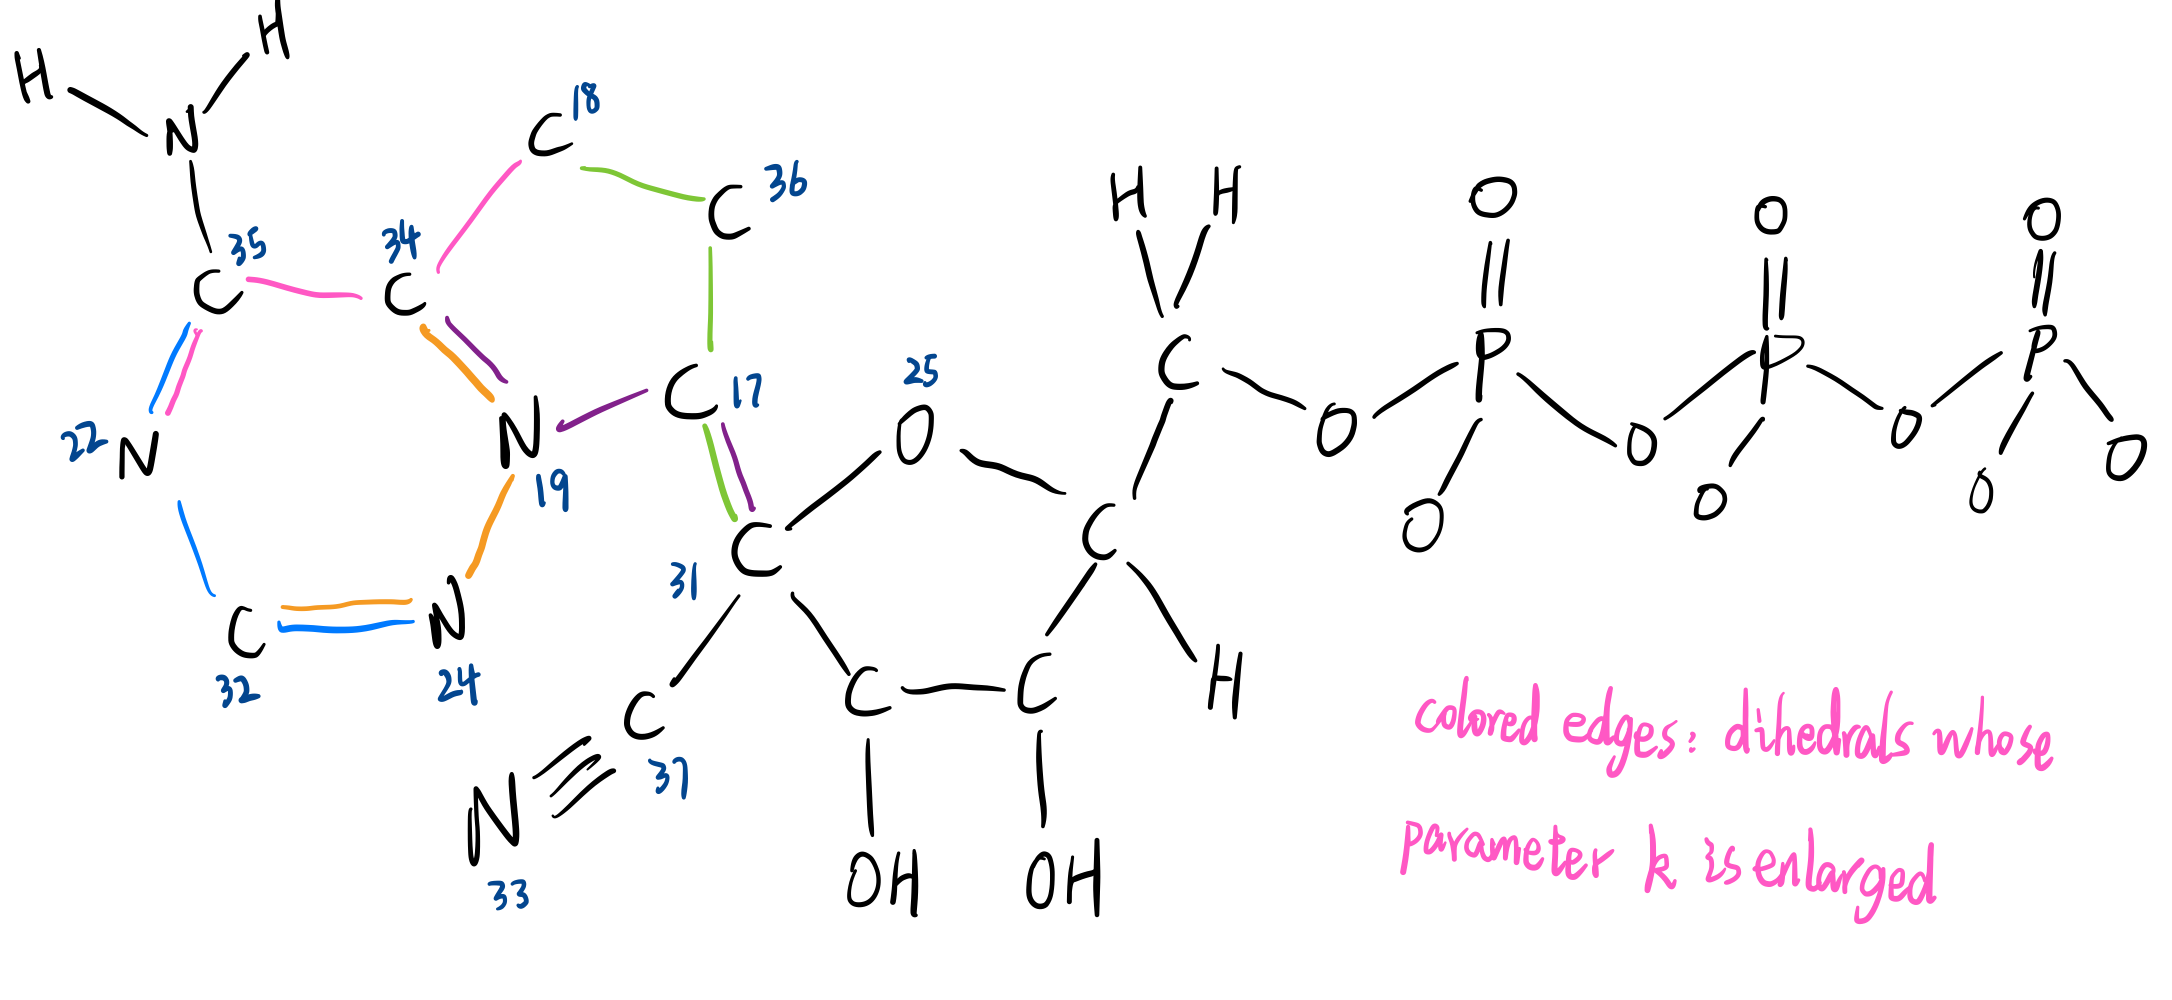
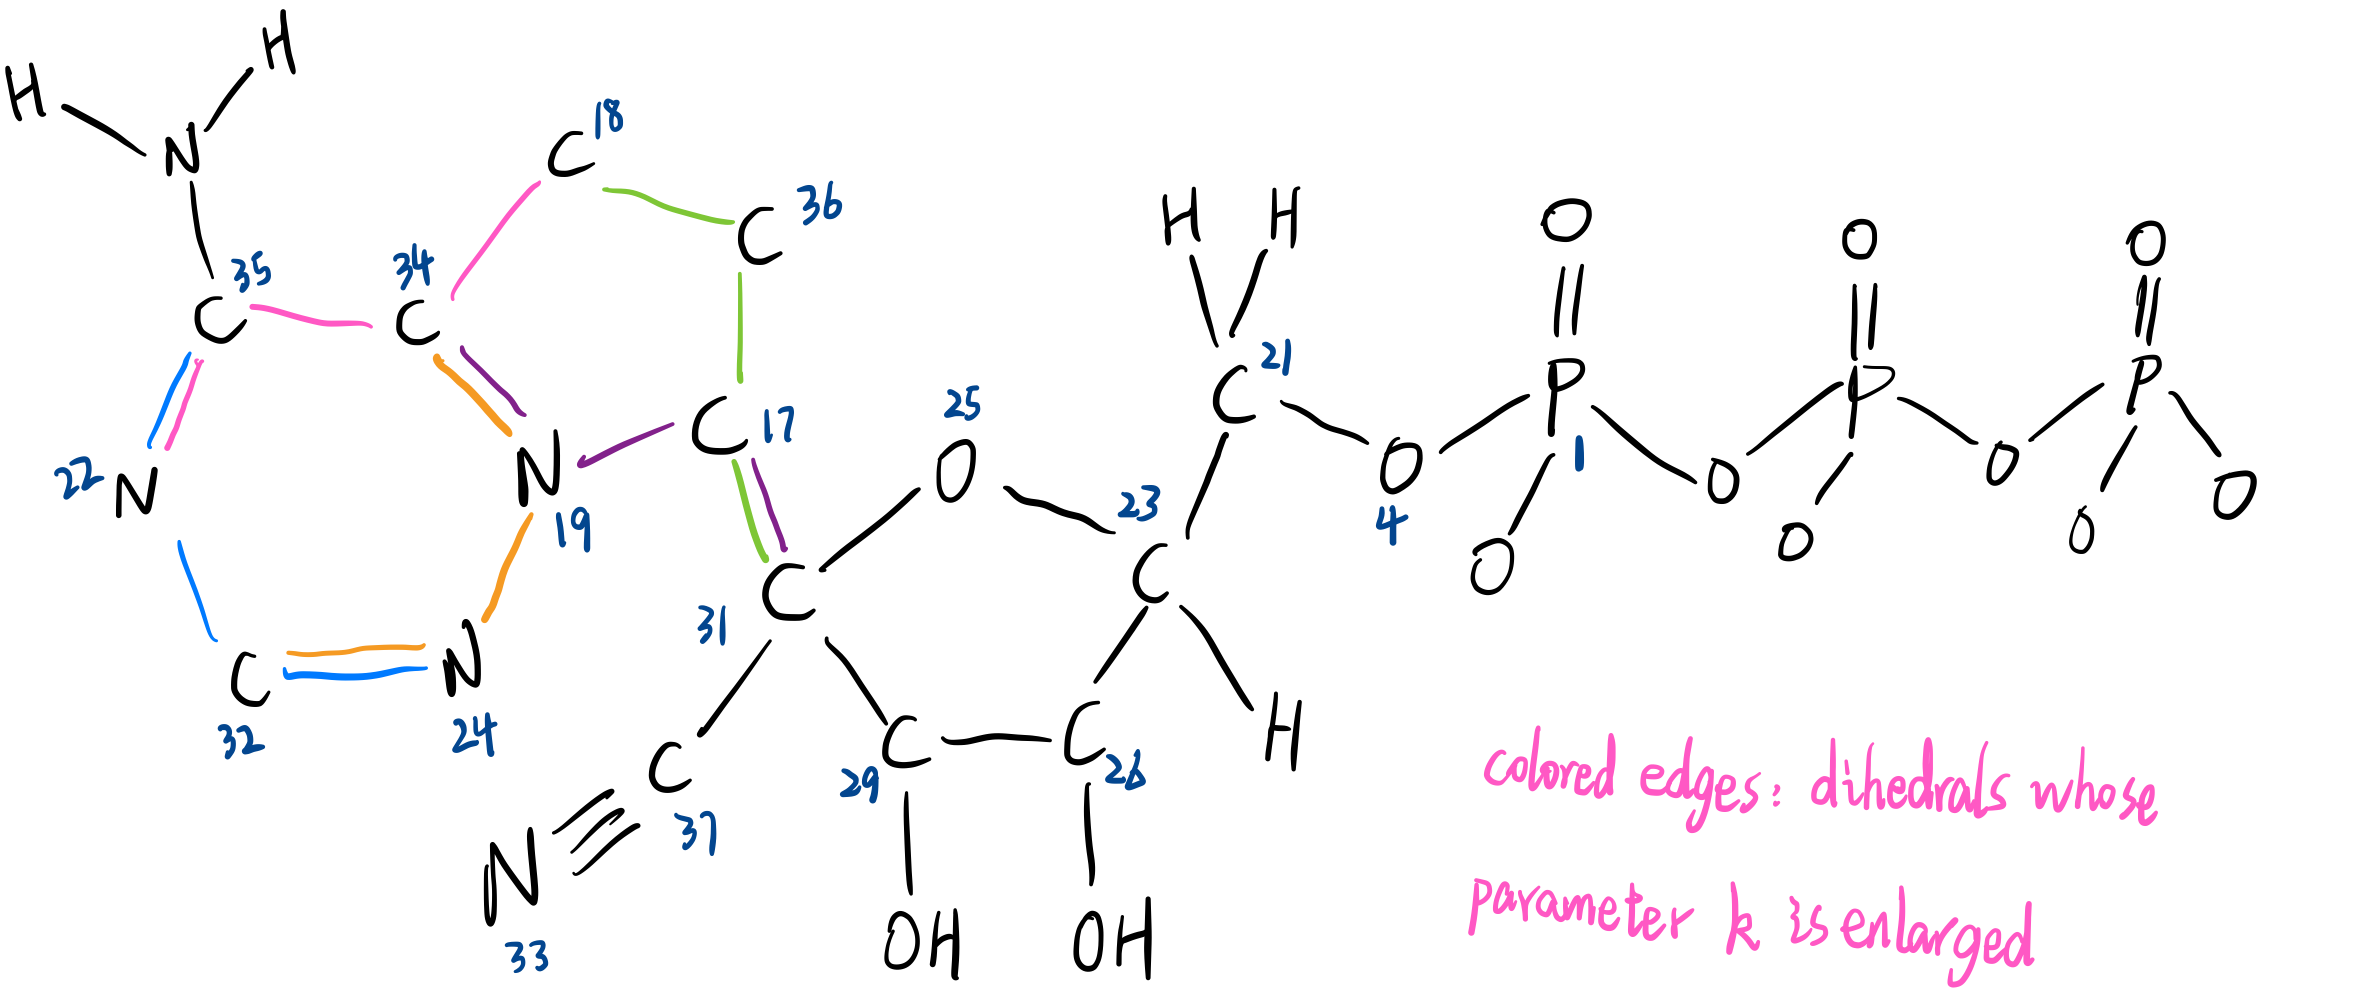
update notes

diff --git a/MD/FYP-notes.md b/MD/FYP-notes.md
@@ -2444,39 +2444,69 @@ order: make lig-equil, modify into com-equil/lig-prod-forward, then into backwar
 
 #### ligand paramters
 
-It's found that the aromatic ring cannot retain its planar structure, though in pymol hybrid.pdb still looks fine (though ligand.pdb Ar dotted bonds is gone). 因为后面对芳环只有参数的限制，程序不知道关于芳香键的标记
+1. It's found that the aromatic ring cannot retain its planar structure, though in pymol hybrid.pdb still looks fine (though ligand.pdb Ar dotted bonds is gone). 因为后面对芳环只有参数的限制，程序不知道关于芳香键的标记
 
-31 17 19 34: CG3C50 CG2R57 NG2RC0 CG2RC0 (purple)
+   31 17 19 34: CG3C50 CG2R57 NG2RC0 CG2RC0 (purple)
 
-31 17 36 18: CG3C50 CG2R57 CG2R51 CG2R51 (green)
+   31 17 36 18: CG3C50 CG2R57 CG2R51 CG2R51 (green)
 
-34 19 24 32: CG2RC0 NG2RC0 NG2R62 CG2R64 (orange)
+   34 19 24 32: CG2RC0 NG2RC0 NG2R62 CG2R64 (orange)
 
-18 34 35 22: CG2R51 CG2RC0 CG2R64 NG2R62 (pink)
+   18 34 35 22: CG2R51 CG2RC0 CG2R64 NG2R62 (pink)
 
-35 22 32 24: CG2R64 NG2R62 CG2R64 NG2R62 (blue)
+   35 22 32 24: CG2R64 NG2R62 CG2R64 NG2R62 (blue)
 
-![remtp-dihedral](https://gitee.com/gxf1212/notes/raw/master/MD/MD.assets/remtp-dihedral.jpg)
+   ![remtp-dihedral](https://gitee.com/gxf1212/notes/raw/master/MD/MD.assets/remtp-dihedral.jpg)
 
-coplanar four atoms. there must be at least two common atoms to make two dihedrals coplanar
+   coplanar four atoms. there must be at least two common atoms to make two dihedrals coplanar
 
-another thing is to control rotations of the groups, i.e. cis-adenine, phosphate group contacting hydrogens....
+   another thing is to control rotations of the groups, i.e. cis-adenine, phosphate group contacting hydrogens....
 
-cis-adenine might be fine (25 31 17 36)
+   cis-adenine might be fine (25 31 17 36)
 
-1 4 21 23: PG1 OG303 CG321 CG3C51 
+2. 1 4 21 23: PG1 OG303 CG321 CG3C51 
 
-> ./par_all36_cgenff.prm:CG3C51 CG321  OG303  PG1        0.6000  1   180.00 ! B5SP carbocyclic sugars reset to EP_2 phospho-ser/thr
-> ./par_all36_cgenff.prm:CG3C51 CG321  OG303  PG1        0.6500  2     0.00 ! B5SP carbocyclic sugars reset to EP_2 phospho-ser/thr
-> ./par_all36_cgenff.prm:CG3C51 CG321  OG303  PG1        0.0500  3     0.00 ! B5SP carbocyclic sugars reset to EP_2 phospho-ser/thr
+   > ./par_all36_cgenff.prm:CG3C51 CG321  OG303  PG1        0.6000  1   180.00 ! B5SP carbocyclic sugars reset to EP_2 phospho-ser/thr
+   >
+   > ./par_all36_cgenff.prm:CG3C51 CG321  OG303  PG1        0.6500  2     0.00 ! B5SP carbocyclic sugars reset to EP_2 phospho-ser/thr
+   >
+   > ./par_all36_cgenff.prm:CG3C51 CG321  OG303  PG1        0.0500  3     0.00 ! B5SP carbocyclic sugars reset to EP_2 phospho-ser/thr
 
-25 31 17 36: 
+   I only keep 0.6500  1     0.00
 
-29 31 17 36: 
+3. 25 31 17 36: OG3C51 CG3C50 CG2R57 CG2R51
 
-> in ori (c01 not so ideal): 50.47070, -69.64504
->
-> equil2/fine3: 65.38997 -45.18305
+   29 31 17 36: CG3C51 CG3C50 CG2R57 CG2R51
+
+   > in hybrid2.prm
+   >
+   > CG2R51 CG2R57 CG3C50 CG3C51     0.3500  3   180.00 ! /tmp/php , from CG2R51 CG2R51 CG3C51 CG3C51, penalty= 21
+   >
+   > CG2R51 CG2R57 CG3C50 OG3C51     0.2800  1   180.00 ! /tmp/php , from CG2R51 CG2R51 CG3C52 OG3C51, penalty= 25
+   >
+   > CG2R51 CG2R57 CG3C50 OG3C51     0.9800  2   180.00 ! /tmp/php , from CG2R51 CG2R51 CG3C52 OG3C51, penalty= 25
+   >
+   > CG2R51 CG2R57 CG3C50 OG3C51     1.7500  3   180.00 ! /tmp/php , from CG2R51 CG2R51 CG3C52 OG3C51, penalty= 25
+
+   > in ori (c01 not so ideal): 50.47070, -69.64504
+   >
+   > equil2/ligand/fine3: 65.38997 -45.18305
+   >
+   > equil2/ligand/fine1: 32.69268 -80.13612
+   >
+   > equil2/ligand/fine2: 32.31323 -84.86327
+   >
+   > equil/ligand/fine6:   49.75553 -66.17808
+   >
+   > equil/ligand/fine5:   47.29112 -66.99147
+   >
+   > try not to look like c01, almost 0 degree (but fits the parameters...)
+
+   I would write
+
+   > OG3C51 CG3C50 CG2R57 CG2R51
+
+4. 4 21 23 25
 
 #### simualtion params
 
@@ -2679,9 +2709,12 @@ $sel writepdb equil-ligand.pdb
 exit
 # pymol *.pdb
 
-conda activate AmberTools21
-align_ligand `pwd`/*.pdb `pwd`/../../../c01-hyb.pdb
-pymol *_aligned.pdb ../../../c01-hyb.pdb
+conda activate pymol
+pymol *.pdb ../../../c01-hyb.pdb
+import psico.mcsalign
+mcsalign fine2, c01-hyb
+# align_ligand `pwd`/*.pdb `pwd`/../../../c01-hyb.pdb
+
 ```
 
 > Taking another set of starting coordinates as the initial for production
@@ -2956,11 +2989,11 @@ catdcd -num ${p}/*.dcd
 # cd equil-try folder
 ## step1: run make_equil.tcl with saving equilibrated
 ## step2: find box info
-p=complex
+p=complex1
 gmx editconf -f ${p}/equilibrated.pdb -o ${p}/equilibrated.gro \
 -box 102.65500259399414 92.92599868774414 112.19599914550781 \
 -center 2.9195003509521484 -1.5780010223388672 -3.006999969482422
-# ligand
+p=ligand1
 gmx editconf -f ${p}/equilibrated.pdb -o ${p}/equilibrated.gro \
 -box 102.65199661254883 92.91299819946289 112.18100357055664 \
 -center 2.9200000762939453 -1.5814990997314453 -3.010499954223633 
@@ -2969,7 +3002,8 @@ vmd -dispdev text -e make_top.tcl -args complex1
 ## step4: to deal with t coupling better, make a index file
 cd $p
 echo "10|11|12" | echo "13|2|3" | gmx make_ndx -f equilibrated.gro -o index.ndx
-echo "4|5|6" | echo "2|9" | gmx make_ndx -f equilibrated.gro -o index.ndx
+# ligand
+echo "4|5|6" | echo "2|3" | gmx make_ndx -f equilibrated.gro -o index.ndx
 ## step5: make .tpr
 gmx grompp -f ../md_fake.mdp -n index.ndx -c equilibrated.gro -r equilibrated.gro -p structure.top -o simulation.tpr -maxwarn 4
 # ligand: md_fake2
@@ -2977,7 +3011,7 @@ gmx grompp -f ../md_fake.mdp -n index.ndx -c equilibrated.gro -r equilibrated.gr
 ## step 6: making traj
 f=forward
 conda activate AmberTools21 
-mdconvert -o ${f}.xtc -t equilibrated.gro ${f}.dcd
+mdconvert -o ${f}.xtc -t equilibrated.gro *${f}.dcd
 gmx trjconv -f ${f}.xtc -o ${f}_nj.xtc -pbc nojump
 ## step7: fit. protein for least square fit, system for output. ligand 13: HYB_MG
 echo 13 0 | gmx trjconv -s simulation.tpr -n index.ndx -f ${f}_nj.xtc -fit rot+trans -o ${f}_fit.xtc
@@ -2998,6 +3032,7 @@ echo 13 24 | gmx cluster -s ../simulation.tpr -n ../index.ndx -f ../${f}_fit.xtc
 xmgrace cluster-id-over-time.xvg
 xmgrace cluster-sizes.xvg
 # pymol
+pymol clusters.pdb
 split_states cluster
 
 cd ..
